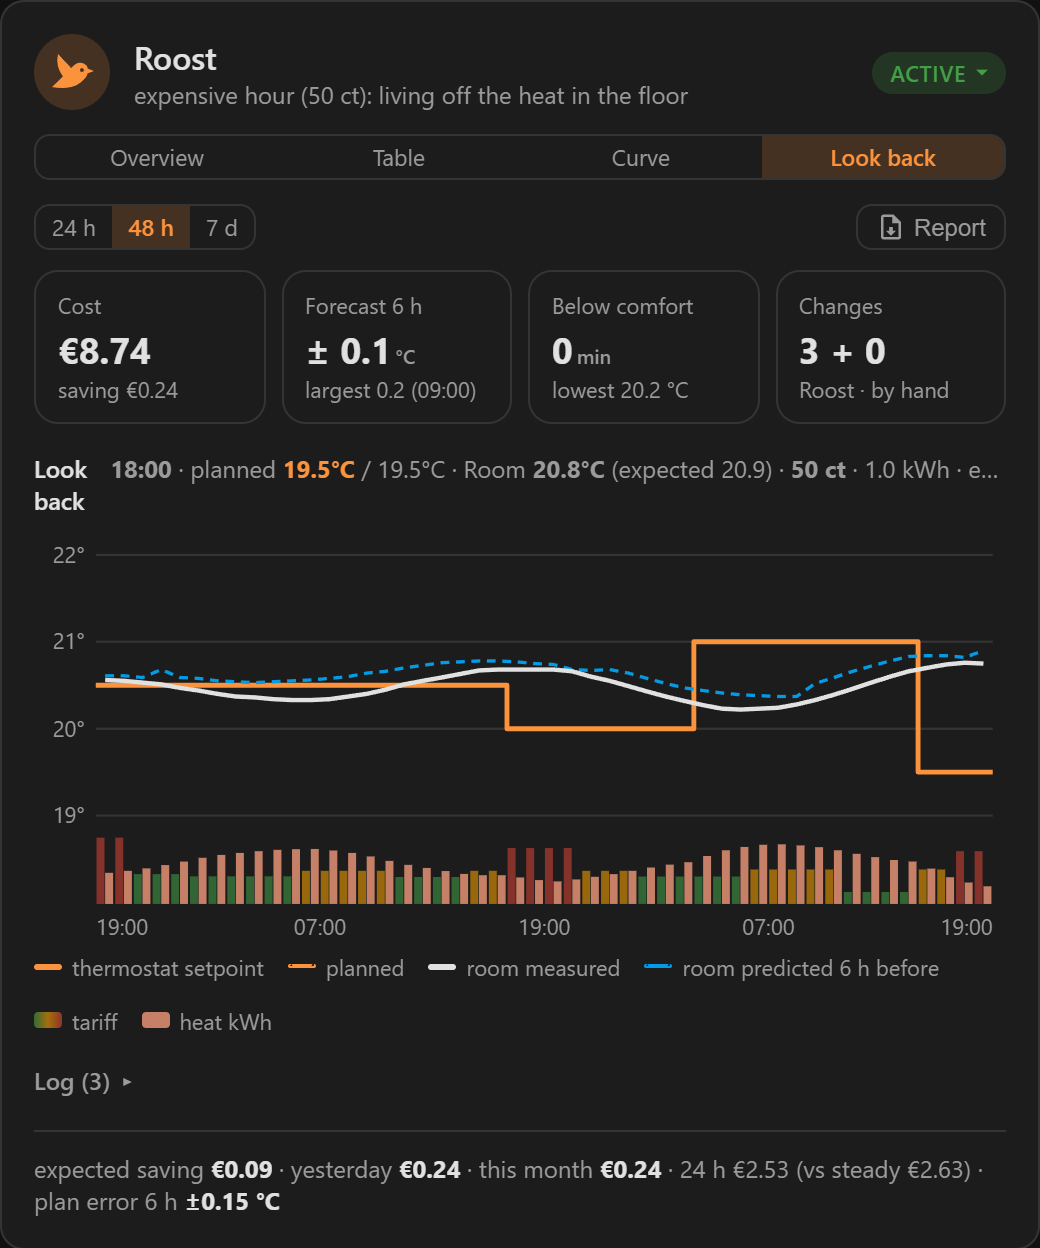
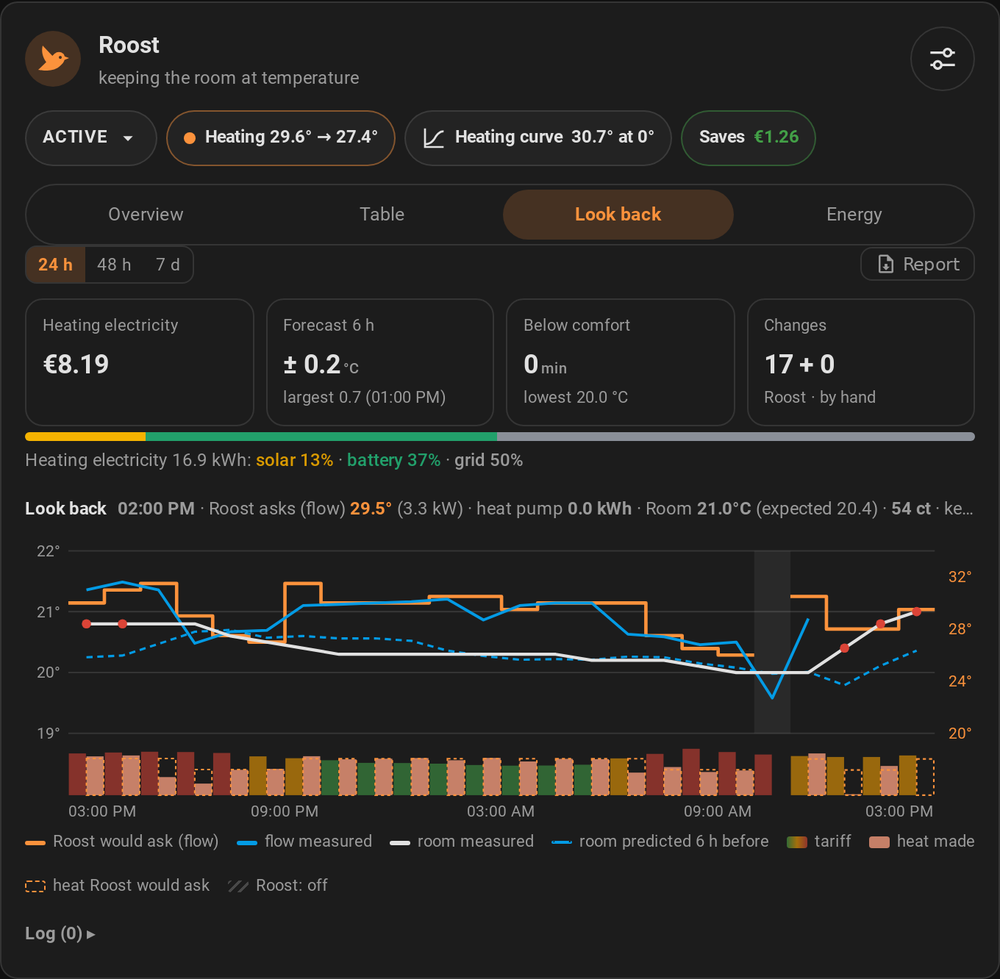
README: card screenshots of v0.9.0 (overview, table, look back, energy, heating curve)

diff --git a/README.md b/README.md
@@ -17,7 +17,7 @@ Plans your thermostat — or the flow temperature itself, over OpenTherm — 24 
 >
 > 🧪 **Testing the beta?** What to expect and what to report: [docs/TESTERS.md](docs/TESTERS.md).
 
-<p align="center"><img src="assets/card-overview.png" width="520" alt="The Roost card: the plan for the next 24 hours, the expected room temperature, the tariff per hour and why"></p>
+<p align="center"><img src="assets/card-overview.png" width="520" alt="The Roost card: the flow it asks, the plan for the next 24 hours, the expected room temperature, the tariff per hour and why"></p>
 
 ## What it does
 
@@ -90,12 +90,12 @@ Plans your thermostat — or the flow temperature itself, over OpenTherm — 24 
 
 | | |
 |:---:|:---:|
-| <img src="assets/card-overview.png" width="400" alt="Overview"><br>**Overview** — what Roost does now and why, the plan for the next 24 hours with the tariff, and the next change | <img src="assets/card-table.png" width="400" alt="Table"><br>**Table** — the plan per hour with the reason, and the last 7 days: planned and set, room measured and expected, price, electricity |
-| <img src="assets/card-curve.png" width="400" alt="Curve"><br>**Curve** — the heating curve your house needs as the five points of the Weheat app, beside every hour the heat pump ran | <img src="assets/card-lookback.png" width="400" alt="Look back"><br>**Look back** — what was planned beside what happened, how well the room was predicted 6 hours ahead, and a log of every change |
+| <img src="assets/card-overview.png" width="400" alt="Overview"><br>**Overview** — what Roost does now and why: the flow it asks and what the heat pump makes (with its COP now), the plan for the next 24 hours with the tariff, expected defrosts and the next change | <img src="assets/card-table.png" width="400" alt="Table"><br>**Table** — the plan per hour with the reason, and the last 7 days: planned and set, room measured and expected, price, electricity, where it came from |
+| <img src="assets/card-lookback.png" width="400" alt="Look back"><br>**Look back** — what was planned beside what happened, how well the room was predicted 6 hours ahead, the heat made per hour and a log of every change | <img src="assets/card-energy.png" width="400" alt="Energy"><br>**Energy** — per hour, day, week or month: heat, electricity, COP, performance against what Roost learned of this heat pump, defrosts, own sun and cost |
+| <img src="assets/card-curve.png" width="400" alt="Heating curve"><br>**Heating curve** — the curve your house needs as the five points of the Weheat app, beside every hour the heat pump ran | |
 
-<sub>Overview, table and look back: Roost's own planner and control on two simulated winter days with dynamic prices
-(an example, not a promise); the curve: a real house. Screenshots of v0.7: since v0.8 the card also has a status line,
-the heat pump's runs and the savings calendar.</sub>
+<sub>Screenshots of v0.9.0 on the author's own house (a Weheat Blackbird P80 steered over OpenTherm by a THRM ONE,
+floor heating and fan coils, dynamic prices), late November 2026: real numbers, an example and not a promise.</sub>
 
 ## Quick start
 
